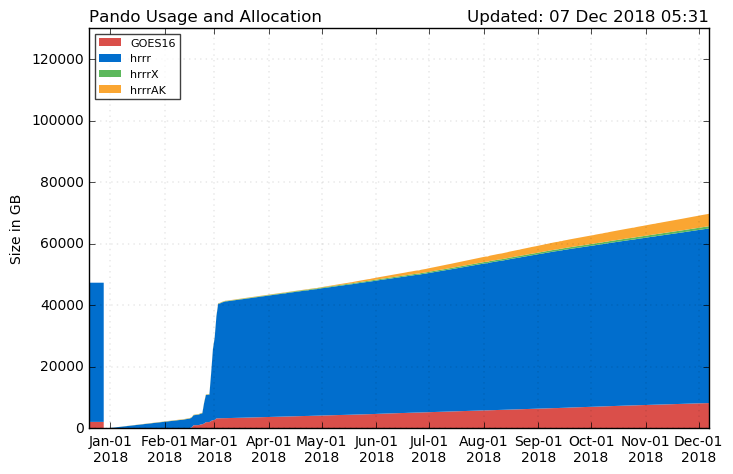
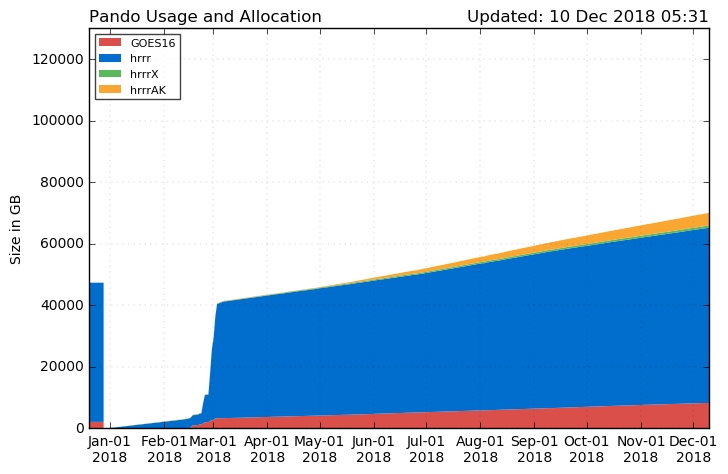
updates

diff --git a/Pando_archive/index.html b/Pando_archive/index.html
@@ -37,7 +37,7 @@
         </div>
   <br>
   <script src='./js/pando_status.js'></script>
-    <center><font size=12> 69.9 TB out of 130 TB</font>
+    <center><font size=12> 70.2 TB out of 130 TB</font>
     <div class="progress" style="max-width:700px;height:35px">
             <div class="progress-bar progress-bar-danger" role="progressbar" style="width:6%">
               <font size=4></font>
@@ -64,9 +64,9 @@
         <th style='text-align:center'>Estimated Full Date</th>
       </tr>
       <tr>
-        <td>104.74 GB</td>
-        <td>573</td>
-        <td>02 July 2020</td>
+        <td>103.60 GB</td>
+        <td>577</td>
+        <td>09 July 2020</td>
       </tr>
     </table>
     <table class="table table-bordered" style='text-align:center;max-width:700px'>
@@ -80,9 +80,9 @@
       <tr>
         <th>sfc</th>
         <td>--</td>
-        <td>24.15</td>
-        <td>1.00</td>
-        <td>9.42</td>
+        <td>24.00</td>
+        <td>0.97</td>
+        <td>9.79</td>
       </tr>
       <tr>
         <th>prs</th>
@@ -100,10 +100,10 @@
       </tr>
       <tr>
         <th>Total</th>
-        <th>16.7 GB</th>
-        <th>27.68 GB</th>
-        <th>1.00 GB</th>
-        <th>9.42 GB</th>
+        <th>15.4 GB</th>
+        <th>27.52 GB</th>
+        <th>0.97 GB</th>
+        <th>9.79 GB</th>
       </tr>
     </table>
 
